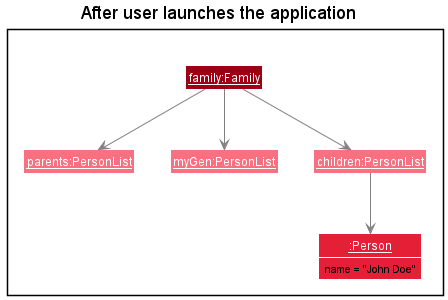
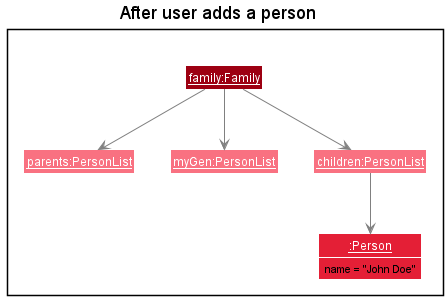
Add UML object diagram to visualise addition of an income

Changed region(s): [[0.1562, 0.0, 0.8125, 0.09]]

diff --git a/docs/DeveloperGuide.md b/docs/DeveloperGuide.md
@@ -121,7 +121,8 @@ Step 2. The user wishes to add a person, say `John Doe`, to the `children` list.
 
 Step 3. The user executes `addin /g 3 /u 1 /i ...` to add a new income to index 1 of the `children` list, who is   
 `John Doe`. This causes an income object to be added to the `IncomeList` of `John Doe`.
--- Insert UML object diagram here
+
+<image src="images/PersonStep3.png"></image>
 
 Step 4. The user now decides to have an overview of his family's finances by executing the `list` command. The `list`  
 command will call `Family#list()`, which will go through each generation to sum up their incomes and expenditures and  
